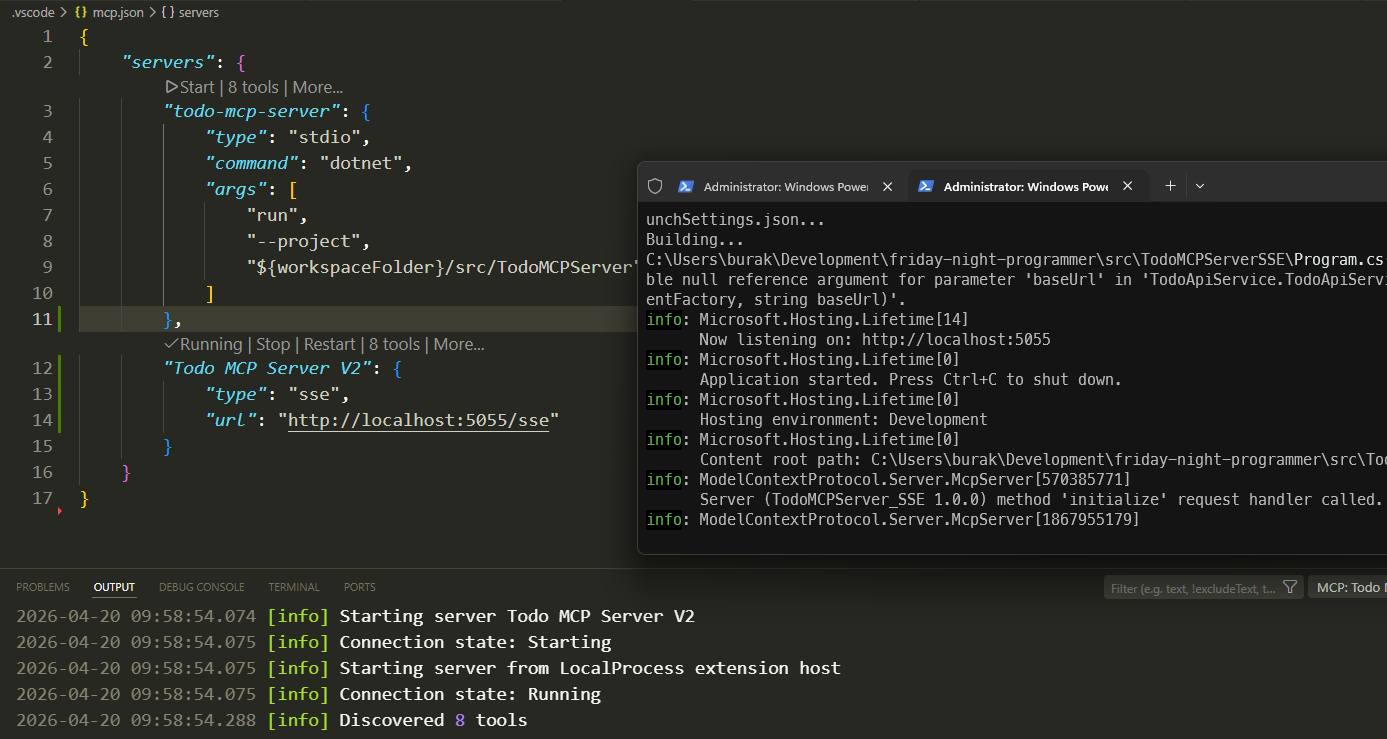
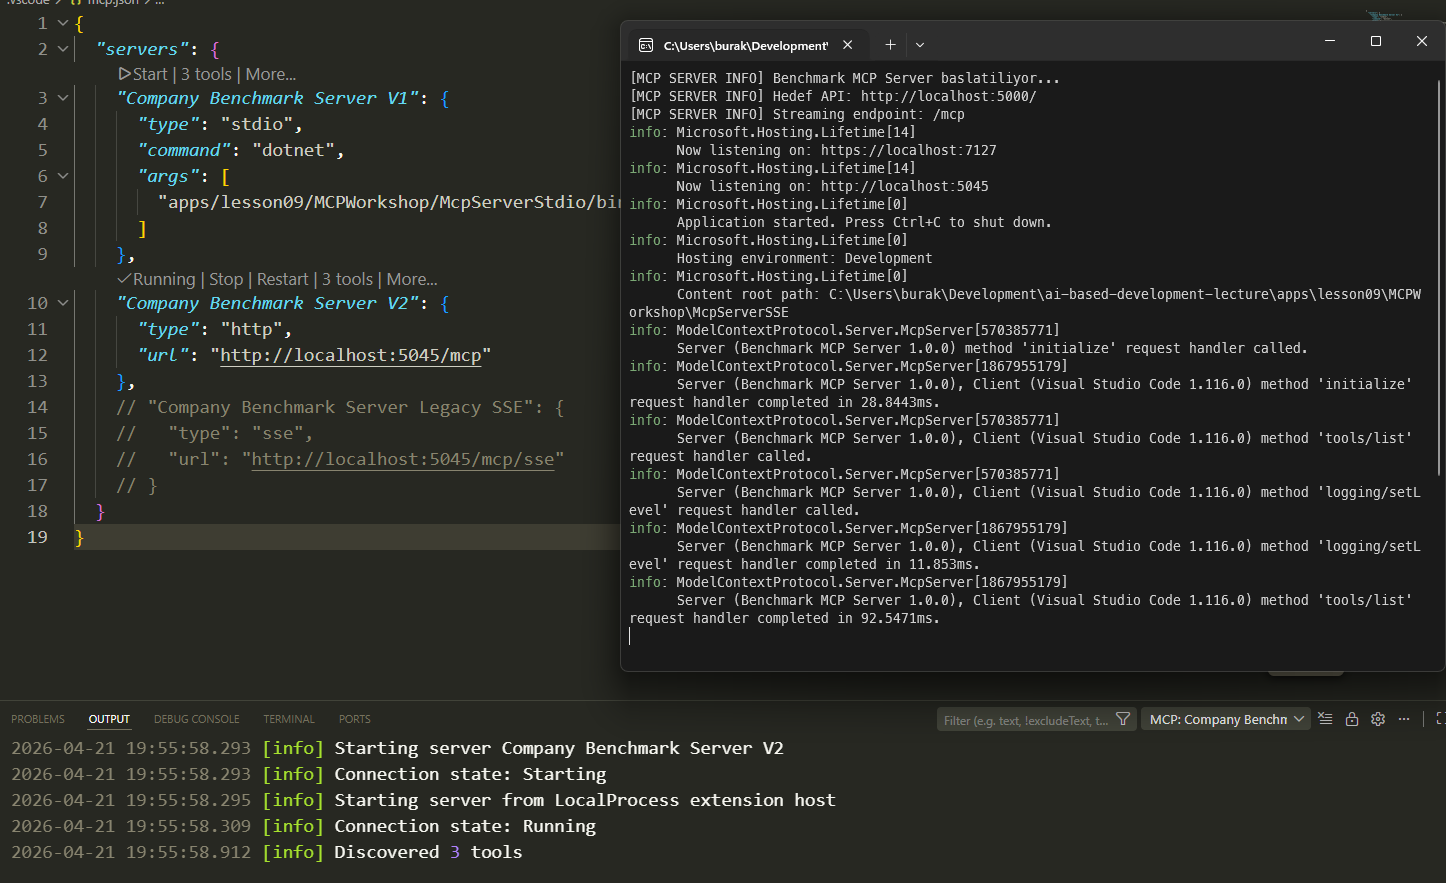
docs: update MCP Server documentation to include HTTP Streaming support and usage examples

diff --git a/_posts/2026-03-07-microsoft-dotnet-platformunda-bir-mcp-server-yazmak.md b/_posts/2026-03-07-microsoft-dotnet-platformunda-bir-mcp-server-yazmak.md
@@ -427,22 +427,27 @@ Yapılacaklar listemdeki görevleri son tarihlerine göre sırala ve en yakın z
 
 E ben daha ne diyeyim:D Bundan sonraki aşamada belki de kullanıcı deneyimi daha iyi bir web uygulaması geliştirip onun üzerinden de bu araçları kullanmayı deneyebiliriz ya da örneğin sistemde yüklü olan bir CLI (Command Line Interface) aracına bu MCP sunucusunu entegre edip benzer görevleri deneyebiliriz. Bu tamamen size bağlı.
 
-## Update: MCP Server ile SSE Destekli İletişim
+## Update: MCP Server ile HTTP Streaming Destekli İletişim
 
-MCP standardı güncel olarak iki tip veri taşıma *(Transport)* mekanizmasını destekler: Standard Input/Output *(Stdio)* ve SSE *(Server-Sent Events)*.
+**MCP** standardı güncel olarak üç tip veri taşıma *(Transport)* mekanizmasını destekler: Standard Input/Output *(Stdio)*, **[SSE](https://www.utcp.io/protocols/sse) *(Server-Sent Events)*** ve **[Streamable HTTP](https://www.utcp.io/protocols/streamable-http)** *(Mart 2025'te HTTP ve SSE kullanımının alternatifi olarak eklenmiştir)*.
 
 - **Stdio:**
-  - **Çalışma şekli;** İstemci taraf (Vs Code, Copilot CLI vb.) ile MCP sunucusu arasında veri alışverişi, standart giriş/çıkış akışları üzerinden gerçekleşir. MCP sunucusu arka planda bir alt process olarak çalışır ve veri iletimi JSON-RPC mesajları ile gerçekleşir.
+  - **Çalışma şekli;** İstemci taraf *(Vs Code, Copilot CLI vb.)* ile MCP sunucusu arasında veri alışverişi, standart giriş/çıkış akışları üzerinden gerçekleşir. MCP sunucusu arka planda bir alt process olarak çalışır ve veri iletimi JSON-RPC mesajları ile gerçekleşir.
   - **Avantajları;** Kurulumu ve entegrasyonu genellikle daha basittir, özellikle yerel geliştirme ortamlarında hızlıca test etmek için idealdir, ağ yapılandırması gerektirmez, port çakışması olmaz veya güvenlik duvarı sorunları yaşanmaz.
   - **Dezavantajları;** Sadece yerel kullanım için uygundur, uzak sunucularla iletişim kurmak mümkün değildir, ölçeklenebilirlik sınırlıdır, yüksek trafik altında performans sorunları yaşanabilir.
   - **Kullanım senaryoları;** Sunucu ve istemcinin aynı makinede çalıştığı durumlar, hızlı prototipleme ve geliştirme süreçleri, basit araç entegrasyonları.
 - **SSE (Server-Sent Events):**
   - **Çalışma şekli;** MCP sunucusu bir Web API olarak çalışır. İstemci sunucuya HTTP üzerinden bir bağlantı açar ve sunucu, SSE protokolünü kullanarak istemciye asenkron mesajlar gönderir.
   - **Avantajları;** Ağ üzerinden çalışır. Dil modeli nerede olursa olsun internet veya intranet üzerinden bağlanabilir.
-  - **Dezavantajları;** Kurulumu ve entegrasyonu daha karmaşıktır. Araya bir ağ katmanı girdiğinden gecikmeler (latency) olabilir ve daha da önemlisi authentication/authorization eklemek gerejir, çünkü aksi halde herhangi biri sunucuya bağlanıp araçları kullanabilir.
-  - **Kullanım senaryoları;** Internet veya intranet üzerinden merkezi bir MCP sunucusuna ihtiyaç duyulan durumlar, birden fazla istemcinin aynı MCP sunucusunu kullanacağı senaryolar.
+  - **Dezavantajları;** Kurulumu ve entegrasyonu daha karmaşıktır. Araya bir ağ katmanı girdiğinden gecikmeler *(latency)* olabilir ve daha da önemlisi authentication/authorization eklemek gerejir, çünkü aksi halde herhangi biri sunucuya bağlanıp araçları kullanabilir.
+  - **Kullanım senaryoları;** Genellikle canlı güncellemeler *(live updates)* veya gerçek zamanlı bildirimler *(notifications)* gerektiren durumlarda ya da feed akışlarında kullanılır. Internet veya intranet üzerinden merkezi bir MCP sunucusuna ihtiyaç duyulan durumlar, birden fazla istemcinin aynı MCP sunucusunu kullanacağı senaryolar için uygundur.
+- **Streamable HTTP:**
+  - **Çalışma şekli;** İstemci ve sunucu haberleşmesi tek bir HTTP endpoint üzerinden yapılır. Kısa süreli işlemlerde standart bir **HTTP Request/Response** gibi davranırken, büyük boyutlu ve uzun sürecek akışlarda otomatik olarak **SSE** benzeri kesintisiz bir stream'e dönüşebilir.
+  - **Avantajları;** Gerçek anlamda çift yönlü *(bidirectional)* iletişim sağlar, tek bir endpoint üzerinden hem kısa hem de uzun süreli işlemleri destekler, bağlantı kopuşlarında kaldığı yerden devam edebilir, iptal edilebilirlik özelliği sunar.
+  - **Dezavantajları;** SSE'de olduğu gibi ağ üzerinden bir iletişim söz konusu olduğundan authentication/authorization eklemek gerekir.
+  - **Kullanım senaryoları;** Büyük boyultu veri akışlarının parçalar halinde eline alınacağı senaryolar için idealdir. Bu nedenle MCP tarafında özellikle araçların çıktılarının uzun olabileceği durumlarda Streamable HTTP tercih edilmektedir. Örneğin bir araç, büyük bir veri setini analiz ediyor ve sonuçları parça parça döndürüyor olabilir. Bu durumda Streamable HTTP, istemcinin bu parçaları gerçek zamanlı olarak almasını sağlar.
 
-Bu çalışmadaki örnekte **stdio** iletişim mekanizması kullanıldı. Eğer **SSE** destekli bir yapı kurmak istersek bir **WebApi** projesi oluşturabiliriz. Aşağıdaki gibi hareket edelim.
+Bu çalışmadaki örnekte **stdio** iletişim mekanizması kullanılmış ve yerel makinede işlerlik sağlanmıştır. Normalde sadece **SSE** ile de ilerleyebiliriz ama güncel **ModelContextProtocol.AspNetCore** paketi doğrudan **HTTP Streaming** standardını desteklemektedir.
 
 ```bash
 dotnet new web -n TodoMCPServerSSE
@@ -454,27 +459,26 @@ dotnet add package ModelContextProtocol.AspNetCore
 Bu uygulamada da TodoApiService ve TodoTools sınıflarını aynı şekilde kullanabiliriz. Farklı olan taraf program.cs kodları.
 
 ```csharp
+using McpServerSSE.Services;
 using ModelContextProtocol.Protocol;
+
+/*
+    Örnek promptlar:
+
+    - "Sistemimizde şu an hangi log parser benchmark projeleri koşuyor? Sadece isimlerini listele."
+    - "Zig ve Rust tabanlı log parser projelerinin detaylı metriklerini çek. Hangisinin yürütme süresi (ExecutionTime) daha kısa, hangisinin bellek tüketimi (MemoryUsage) daha az? Bu analizi Markdown formatında güzel bir tablo haline getir ve sisteme 'zig_vs_rust_analizi' adıyla rapor olarak kaydet."
+
+*/
 
 var builder = WebApplication.CreateBuilder(args);
 
-builder.Logging.AddConsole(options =>
-{
-    options.LogToStandardErrorThreshold = LogLevel.Trace;
-});
-
-builder.Configuration.Sources.Clear();
-builder.Configuration
-    .SetBasePath(AppContext.BaseDirectory)
-    .AddJsonFile("appsettings.json", optional: false, reloadOnChange: false);
-
-var todoApiBaseUrl = builder.Configuration["TodoApiUrl"];
+string apiUrl = "http://localhost:5000/";
 
 builder.Services.AddHttpClient();
 builder.Services.AddSingleton(sp =>
 {
     var httpClientFactory = sp.GetRequiredService<IHttpClientFactory>();
-    return new TodoApiService(httpClientFactory, todoApiBaseUrl);
+    return new BenchmarkApiService(httpClientFactory, apiUrl);
 });
 
 builder.Services
@@ -482,31 +486,46 @@ builder.Services
     {
         options.ServerInfo = new Implementation
         {
-            Name = "TodoMCPServer_SSE",
-            Version = "1.0.0"
+            Name = "Benchmark MCP Server",
+            Version = "1.0.0",
         };
     })
     .WithHttpTransport()
+    //.WithHttpTransport(options =>
+    //{
+    //    options.EnableLegacySse = true; // Legacy SSE desteğini de ekler (Obsolete oldu)
+    //    // Streamable HTTP desteği olmayan istemciler için işe yarar.
+    //})
     .WithToolsFromAssembly();
 
 var app = builder.Build();
 
-app.MapMcp("/sse");
+app.MapMcp("/mcp"); // Varsayılan olarak Streamable HTTP transport kullanılır, ama aynı zamanda legacy SSE'yi de destekler.
+
+Console.WriteLine("[MCP SERVER INFO] Benchmark MCP Server başlatılıyor...");
+Console.WriteLine($"[MCP SERVER INFO] Hedef API: {apiUrl}");
+Console.WriteLine("[MCP SERVER INFO] Streaming endpoint: /mcp");
+
 app.Run();
+
 ```
 
-Durumu bir özetleyelim. Todo işlemleri ile ilgili web api servisimiz rust ile yazılmış bir uygulama idi. Bu servisin her durumda çalışır olmasını bekliyoruz. Yeni MCP sunucu uygulamamız ise bir öncekinden farklı olarak bir WebApi projesi. Bununla birlikte **MapMcp** isimli metotla otomatik olarak bir yapay zeka aracının iletişim kurabileceği bir endpoint haline geliyor. **AddMcpServer** metodu arkasından çağırılan **WithHttpTransport** metodu ise bu iletişim için SSE destekli bir mekanizma kullanılacağını belirtiyor. Artık bu sunucuyu başlattığımızda, yapay zeka araçları belirtilen endpoint'e bağlanarak araç setimizi keşfedebilir ve kullanabilirler.
+Durumu bir özetleyelim. Todo işlemleri ile ilgili web api servisimiz rust ile yazılmış bir uygulama idi. Bu servisin her durumda çalışır olmasını bekliyoruz. Yeni **MCP** sunucu uygulamamız ise bir öncekinden farklı olarak bir **WebApi** projesi. Bununla birlikte **MapMcp** isimli metotla otomatik olarak bir yapay zeka aracının iletişim kurabileceği bir endpoint haline geliyor. **AddMcpServer** metodu arkasından çağırılan **WithHttpTransport** metodu ise bu iletişim için HTTP Streaming destekli bir mekanizma kullanılacağını belirtiyor. Artık bu sunucuyu başlattığımızda, yapay zeka araçları belirtilen endpoint'e bağlanarak araç setimizi keşfedebilir ve kullanabilirler.
 
 Bunu deneyimlemek için öncelikle **rust** ile yazılmış todo-api servisinin çalışır durumda olduğundan emin olalım. Ardından dotnet projemizi çalıştırarak **MCP** sunucusunu ayağa kaldıralım. Sonrasında istersek **VS Code** tarafındaki **mcp.json** dosyasını aşağıdaki gibi güncelleyerek yeni sunucumuzu etkinleştirebiliriz.
 
 ```json
 {
-    "servers": {
-        "Todo MCP Server V2": {
-            "type": "sse",
-            "url": "http://localhost:5055/sse"
-        }
-    }
+  "servers": {
+    "Company Benchmark Server V2": {
+      "type": "http",
+      "url": "http://localhost:5045/mcp"
+    },
+    // "Company Benchmark Server Legacy SSE": {
+    //   "type": "sse",
+    //   "url": "http://localhost:5045/mcp/sse"
+    // }
+  }
 }
 ```
 
